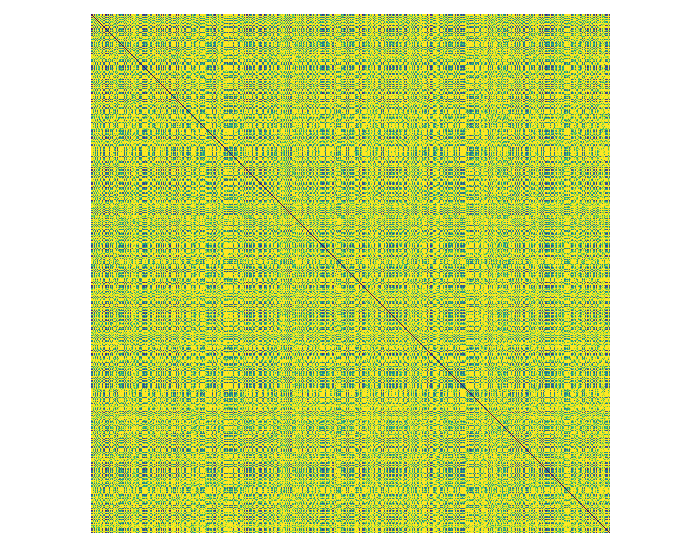
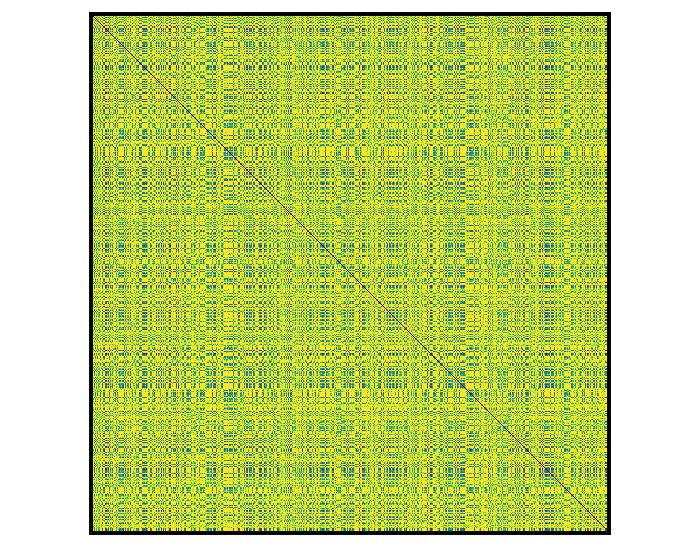
added lowres transparent, no axes rdms

Changed region(s): [[0.12, 0.0, 0.87, 0.9714]]

diff --git a/scripts/create_subject_roi_rdms.py b/scripts/create_subject_roi_rdms.py
@@ -119,10 +119,17 @@ def plot_rdm(rdm_square, subject, session, region, distance_metric, save_dir):
     
     heatmap_path = os.path.join(save_dir, subject, 'figures', 'rdm_no_background', f'{region}_roi_rdm_heatmap.png')
     # axes off
-    ax.axis('off')
+    # ax.axis('off')
     # ticks off
     ax.set_xticks([])
     ax.set_yticks([])
+
+    # create a border around the heatmap
+    for spine in ax.spines.values():
+        spine.set_visible(True)
+        spine.set_linewidth(4)
+        spine.set_color('black')
+
 
     plt.savefig(heatmap_path, dpi=70, transparent=True)
     print(f"Heatmap saved at {heatmap_path}")
